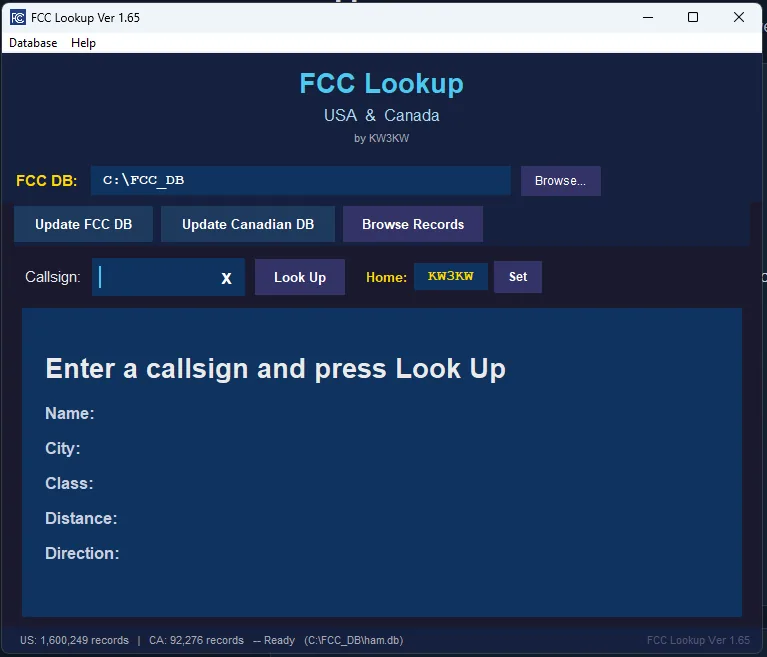
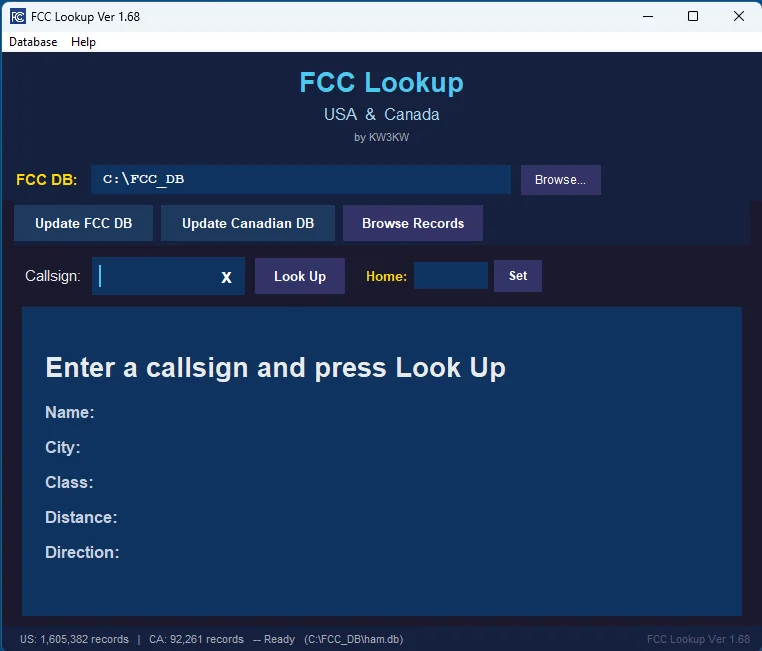
Website: new FCC Lookup screenshot (1.68)
Claude-Session: https://claude.ai/code/session_012A2mcPmibq6ExDTm6peLxZ

diff --git a/index.html b/index.html
@@ -294,7 +294,7 @@
           </div>
         </div>
         <figure class="shot">
-          <img src="images/fcc-lookup.webp" width="767" height="657" loading="lazy" alt="FCC Lookup window with U.S. and Canadian license databases loaded">
+          <img src="images/fcc-lookup.webp" width="762" height="651" loading="lazy" alt="FCC Lookup window with U.S. and Canadian license databases loaded">
           <figcaption>FCC Lookup: 1.6 million U.S. and 92,000 Canadian records, offline</figcaption>
         </figure>
       </article>
